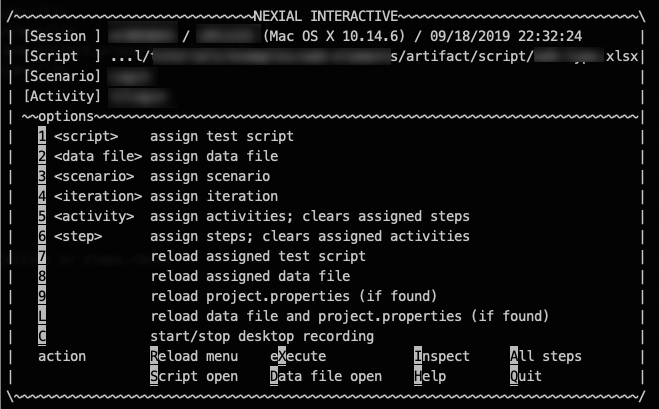
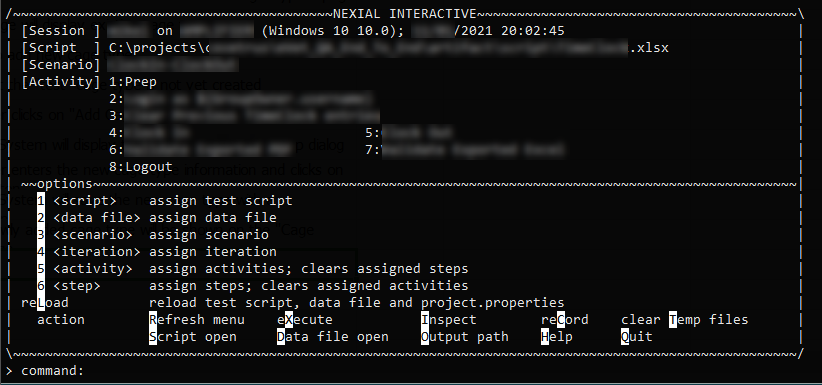
update doc and screenshot for Nexial Interactive

Changed region(s): [[0.0, 0.0, 1.0, 1.0]]

diff --git a/assets/css/style.scss b/assets/css/style.scss
@@ -1,6 +1,5 @@
 ---
 ---
-
 .highlight table td { padding: 5px; }
 
 .highlight table pre {margin: 0;}
@@ -344,6 +343,7 @@ li > ul, li > ol { margin-bottom: 0; }
 //}
 
 dl { margin-bottom: 20px; }
+
 dl dt {color: #303030;}
 
 footer {
@@ -1039,24 +1039,18 @@ pre.explain {
 }
 
 .tabs .tab-links li {
-  margin: -5px 10px !important;
+  margin: -5px 10px 0 8px;
   padding: 0 !important;
   float: left;
   list-style: none;
 }
 
-.tabs .tab-links .active {
-  border-bottom: 5px solid #000;
-  margin-bottom: -5px !important;
-}
-
 .tabs .tab-links a {
   background: rgba(125, 175, 60, 1) !important;
-  //background: rgba(140, 200, 40, 0.55) !important;
   color: #f0f0f0;
   box-shadow: 3px -2px 2px -1px #151;
   display: inline-block;
-  padding: 9px 15px;
+  padding: 9px 13px;
   border-radius: 3px 3px 0 0;
   font-size: 16px;
   font-weight: 600;
@@ -1080,7 +1074,6 @@ pre.explain {
 }
 
 .tabs .tab-links .active {
-  display: block;
   border-bottom: 5px solid #000;
   margin-bottom: -5px;
 }

diff --git a/interactive/index.md b/interactive/index.md
@@ -42,23 +42,25 @@ Currently Nexial Interactive comes with the following capabilities:
   <a href="javascript:void(0);" onclick="scrollToTab('reload_data_tab','options-and-actions')">(re)load data file</a>
 - <a href="javascript:void(0);" onclick="scrollToTab('assign_scenario_tab','options-and-actions')">(re)assign test scenario</a>
 - <a href="javascript:void(0);" onclick="scrollToTab('assign_activity_tab','options-and-actions')">(re)assign activities</a>; 
-  may be out of designed sequence
+  may be out of designated sequence
 - <a href="javascript:void(0);" onclick="scrollToTab('assign_step_tab','options-and-actions')">(re)assign steps</a>; 
-  may be out of designed sequence
+  may be out of designated sequence
 - <a href="javascript:void(0);" onclick="scrollToTab('inspection_tab','actions')">Inspection</a>
 - <a href="javascript:void(0);" onclick="scrollToTab('execute_tab','options-and-actions')">execute</a> the assigned 
   activities or steps
+- <a href="javascript:void(0);" onclick="scrollToTab('recoding_tab','options-and-actions')">record</a> current 
+  Interactive session
 
-Note that the main objective of Nexial Interactive is to execute a subset of the automation script, possibly repeatedly,
-so that we can better understand the target application, the automation objective, or the Nexial capability. For such
-reasons, Nexial Interactive does not support test plan or multiple scenarios. The common pattern is to focus on a block 
+Note that the main objective of Nexial Interactive is to execute a subset of the automation script, perhaps repeatedly,
+so that we can better understand the target application, the automation objective, or the capability of Nexial. As such, 
+Nexial Interactive does not support test plan or multiple scenarios. The common usage pattern is to focus on a block 
 of steps (of one scenario, naturally), work through the __"execute-observe-repeat"__ cycle, and move on to the next 
-block of steps. One can (re)assign the number of steps or scenario between execution. 
+block of steps. One can assign or reassign the number of steps or scenario between execution. 
 
 
 ### Try it yourself
-To activate Nexial Interactive, simply add the `-interactive` flag to your Nexial execution command line argument. One 
-may include `-scenario ...` and `-data ...` command line argument - they are optional.<br/>
+To activate Nexial Interactive, simply add the `-interactive` flag to your Nexial execution command line argument. If 
+needed, one may include `-scenario ...` and `-data ...` command line arguments as well.<br/>
 
 <div class="tabs" xmlns="http://www.w3.org/1999/html" xmlns="http://www.w3.org/1999/html">
     <ul class="tab-links tabs-collapsed">
@@ -90,7 +92,8 @@ This represents an active Nexial Interactive session. The top half of the menu s
 assigned script, the assigned scenario and the assigned activities/steps to 
 <a href="javascript:void(0);" onclick="scrollToTab('execute_tab','options-and-actions')">execute</a>. The second half 
 are the available options and actions to control the current Nexial Interactive session - these options and actions are 
-the characters highlighted with white background. Click one of the tabs below to see more details on these options and 
+represented by the characters highlighted with white background. They can be activated by typing the corresponding 
+letter or number at the "`command:`" prompt. Click one of the tabs below to see more details about these options and 
 actions.
 
 
@@ -111,22 +114,20 @@ All option and action keys are **NOT** case-sensitive.
 <div class="tabs interactive">
     <ul class="tab-links tabs-collapsed">
         <li><a href="#tab3" id="assign_script_tab"><code>1</code> assign test script</a></li>
-        <li><a href="#tab4" id="assign_data_tab"><code>2</code> assign data script</a></li>
+        <li><a href="#tab4" id="assign_data_tab"><code>2</code> assign data file</a></li>
         <li><a href="#tab5" id="assign_scenario_tab"><code>3</code> assign scenario</a></li>
         <li><a href="#tab6" id="assign_iteration_tab"><code>4</code> assign iteration</a></li>
         <li><a href="#tab7" id="assign_activity_tab"><code>5</code> assign activities</a></li>
         <li><a href="#tab8" id="assign_step_tab"><code>6</code> assign step(s)</a></li>
-        <li><a href="#tab9" id="reload_script_tab"><code>7</code> reload assigned test script</a></li>
-        <li><a href="#tab10" id="reload_data_tab"><code>8</code> reload assigned data file</a></li>
-        <li><a href="#tab11" id="reload_prop_tab"><code>9</code> reload project.properties</a></li>
-        <li><a href="#tab12" id="reload_data_prop_tab">re<code>L</code>oad script and data file</a></li>
-        <li><a href="#tab13" id="recoding_tab">desktop re<code>C</code>ording</a></li>
-        <li><a href="#tab14" id="reload_tab"><code>R</code>eload menu</a></li>
+        <li><a href="#tab12" id="reload_data_prop_tab">re<code>L</code>oad script and data</a></li>
+        <li><a href="#tab13" id="recoding_tab">re<code>C</code>ord (desktop)</a></li>
+        <li><a href="#tab14" id="reload_tab"><code>R</code>efresh menu</a></li>
         <li><a href="#tab15" id="execute_tab">e<code>X</code>ecute</a></li>
         <li><a href="#tab16" id="inspection_tab"><code>I</code>nspect</a></li>
-        <li><a href="#tab17" id="all_steps_tab"><code>A</code>ll steps</a></li>
+        <li><a href="#tab17" id="clear_temp">clear <code>T</code>emp files</a></li>
         <li><a href="#tab18" id="open_script_tab"><code>S</code>cript open</a></li>
         <li><a href="#tab19" id="open_data_tab"><code>D</code>ata file open</a></li>
+        <li><a href="#tab19a" id="output_path"><code>O</code>utput path</a></li>
         <li><a href="#tab20" id="help_tab"><code>H</code>elp</a></li>
         <li><a href="#tab21" id="quit_tab"><code>Q</code>uit</a></li>
     </ul>
@@ -274,30 +275,6 @@ All option and action keys are **NOT** case-sensitive.
             Note that this option only changes the step or steps to execute. To commence the 
             <a href="javascript:void(0);" onclick="scrollToTab('execute_tab','options-and-actions')">execution, use <code>X</code></a>.
         </div>
-        <div id="tab9" class="tab">
-            Use <code>7</code> to reload the assigned script file in the current Nexial Interactive session.<br/>
-            <br/>
-            This option will reload the assigned script and reset any previously assigned activities or steps. Since 
-            there could be changes to the script, such as removal of steps or activities, reloading such file could 
-            result in invalid step reference. Hence Nexial Interactive resets any previously assigned activities or 
-            steps after script reload.
-        </div>
-        <div id="tab10" class="tab">
-            Use <code>8</code> to reload the assigned data file in the current Nexial Interactive session.<br/>
-            <br/>
-            This option will reload the assigned data file. This will effectively override the value of the 
-            same data variables found in the data file, except those defined in <code>project.properties</code> or 
-            command-line <code>-override</code>. This applies also to those saved or updated via 
-            <a href="javascript:void(0);" onclick="scrollToTab('inspection_tab','options-and-actions')">Inspection</a>.
-        </div>
-        <div id="tab11" class="tab">
-            Use <code>9</code> to reload the project.properties (if exists) of the current project.<br/>
-            <br/>
-            This option will reload the <code>project.properties</code> file, if any. This will effectively override 
-            the value of the same data variables found in the data file or previously updated via 
-            <a href="javascript:void(0);" onclick="scrollToTab('inspection_tab','options-and-actions')">Inspection</a>, 
-            except those defined in command-line <code>-override</code>.
-        </div>
         <div id="tab12" class="tab">
             Use <code>L</code> to reload the assigned test script, data file and the current project's 
             <code>project.properties</code> file.<br/>
@@ -340,13 +317,13 @@ All option and action keys are **NOT** case-sensitive.
             <img src="image/ni_recording_file.png"/><br/>
         </div>
         <div id="tab14" class="tab">
-            Use <code>R</code> to reload Interactive Interactive menu.<br/>
+            Use <code>R</code> to refresh Interactive Interactive menu.<br/>
             <br/>
             After reassigning script, data file, scenario, iteration, activity or step, it's usually a good idea
             to re-render the Nexial Interactive console menu again. In doing so, Nexial Interactive will display the 
-            script, scenario, activity or steps that are designate to 
+            script, scenario, activity or steps that are designated to 
             <a href="javascript:void(0);" onclick="scrollToTab('execution_tab','options-and-actions')">execute</a>. For
-            example, see below and notice the change in Activity between the <code>r</code>eload option being 
+            example, see below and notice the change in Activity between the Refresh menu option being 
             activated:<br/>
             <img src="image/ni_activity_1.png"/><br/>
         </div>
@@ -434,10 +411,12 @@ All option and action keys are **NOT** case-sensitive.
             Nexial Interactive</a>.
         </div>
         <div id="tab17" class="tab">
-            Use <code>A</code> to reset all custom step assignment to assign to all steps.<br/>
+            Use <code>T</code> to purge Nexial-generated temp files that are generated during automation.<br/>
             <br/>
-            This effectively reset any step or activity assignments to the activities, in their designated order, as
-            found in the assigned script.
+            During execution, Nexial generates temp files as the transient execution result. Generally speaking, these 
+            temp files are purged after some time. However, one can use this option purge these temp files immediately 
+            to reclaim needed disk space or if excessive temp files is a performance concern. Note that as a safety
+            precaution, this command will only clear out files that are generated more than an hour ago.
         </div>
         <div id="tab18" class="tab">
             Use <code>S</code> to open the assigned script.<br/>
@@ -450,6 +429,12 @@ All option and action keys are **NOT** case-sensitive.
             <br/>
             This is a convenience to open up the current assigned data file:<br/>
             <img src="image/ni_open_data_file.png"/>
+        </div>
+        <div id="tab19a" class="tab">
+            Use <code>O</code> to open the output directory for the current Interactive session.<br/>
+            <br/>
+            This is a convenience to open up the current output directory using System-dependent file/folder manager 
+            program (e.g. File Explorer for Windows or Finder for MacOS)<br/>
         </div>
         <div id="tab20" class="tab">
             Use <code>H</code> to display help information that contains further information on each of the options 
@@ -468,14 +453,11 @@ All option and action keys are **NOT** case-sensitive.
 <br/>
 Click here to learn more about [Inspecting Desktop Elements in Nexial Interactive](inspect_desktop)
 
-<br/>
-<br/>
-
 
 ### Limitation
-This is the first release of Nexial Interactive. As time permits and if requests should be made, we will enhance 
-Nexial Interactive with more learning goodness. Currently, here are the enhancement candidates that we are considering 
-for Nexial Interactive. No timeline has been committed as of yet.
+As time permits and as requests are made, further enhancements to Nexial Interactive will be implemented. Currently, 
+here are the enhancement candidates that we are considering for future version of Nexial Interactive. No timeline has 
+been committed as yet.
 - Desktop GUI version of Nexial Interactive
 - Switching between interactive and non-interactive (normal execution) mode
 - Switch browser; currently some System variables cannot be adjusted within the same Nexial Interactive session
